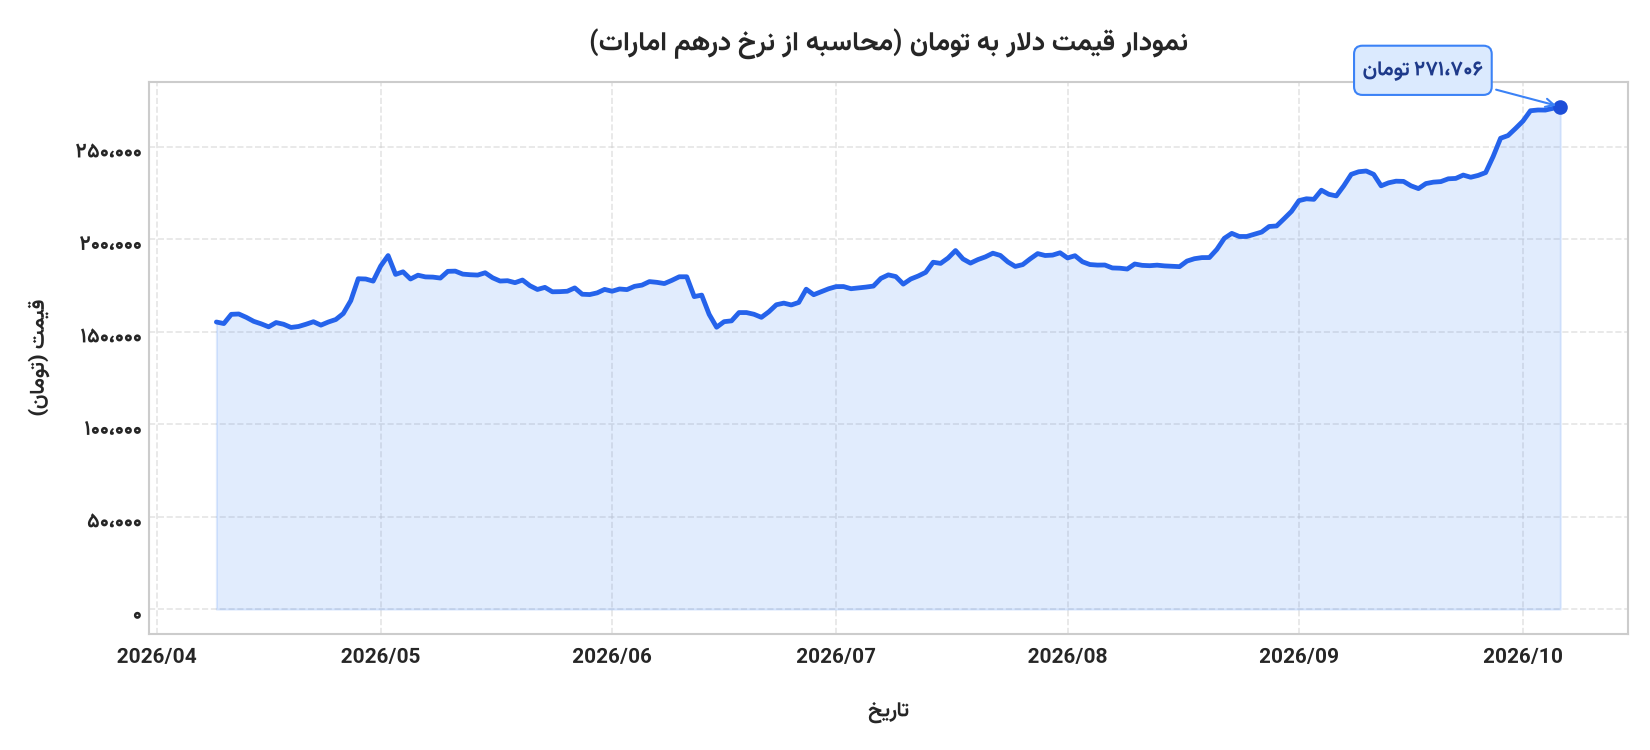
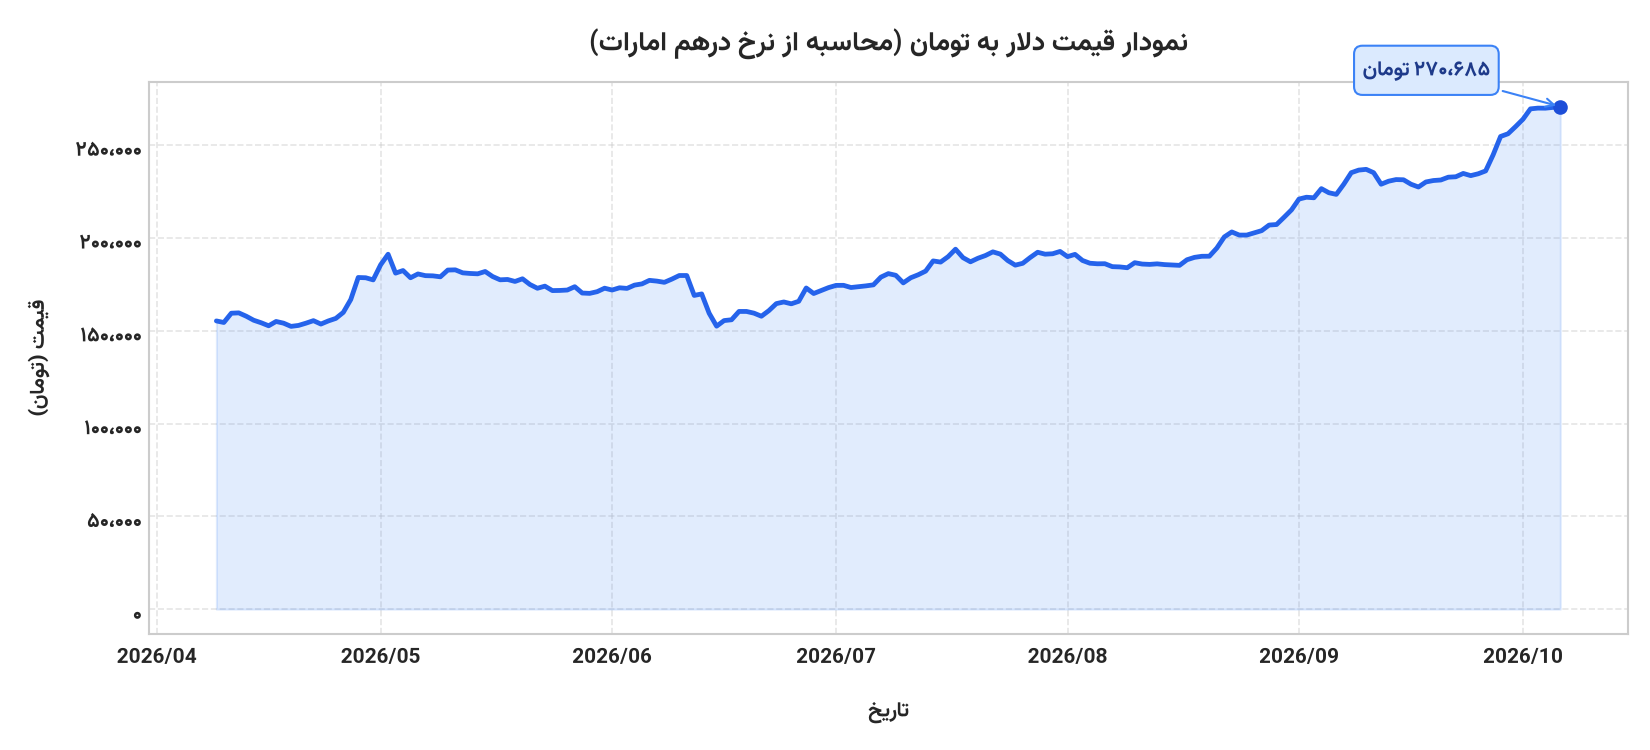
chore(auto): update rates, API history and chart [skip ci]

diff --git a/README.md b/README.md
@@ -5,7 +5,7 @@
 <h1 style="font-family: 'Vazirmatn', sans-serif;">📈 آخرین قیمت دلار و نفت</h1>
 
 <p style="font-family: 'Vazirmatn', sans-serif; font-size: 14px; color: #555;">
-⏱ بروزرسانی خودکار هر ۳۰ دقیقه | آخرین بروزرسانی: <b>۰۸:۱۴</b>
+⏱ بروزرسانی خودکار هر ۳۰ دقیقه | آخرین بروزرسانی: <b>۱۲:۳۱ (به وقت تهران)</b>
 </p>
 
 ---
@@ -20,11 +20,11 @@
   <tbody>
     <tr>
       <td style="padding: 12px 24px;">💵 <b>دلار آمریکا (آزاد)</b></td>
-      <td style="padding: 12px 24px; color: #16a34a; font-weight: bold;">۲۷۱،۷۰۶ تومان</td>
+      <td style="padding: 12px 24px; color: #16a34a; font-weight: bold;">۲۷۰،۶۸۵ تومان</td>
     </tr>
     <tr>
       <td style="padding: 12px 24px;">🛢 <b>نفت خام اوپک / برنت</b></td>
-      <td style="padding: 12px 24px; color: #2563eb; font-weight: bold;">۸۸.۴۵ دلار</td>
+      <td style="padding: 12px 24px; color: #2563eb; font-weight: bold;">۸۸.۱۰ دلار</td>
     </tr>
   </tbody>
 </table>
